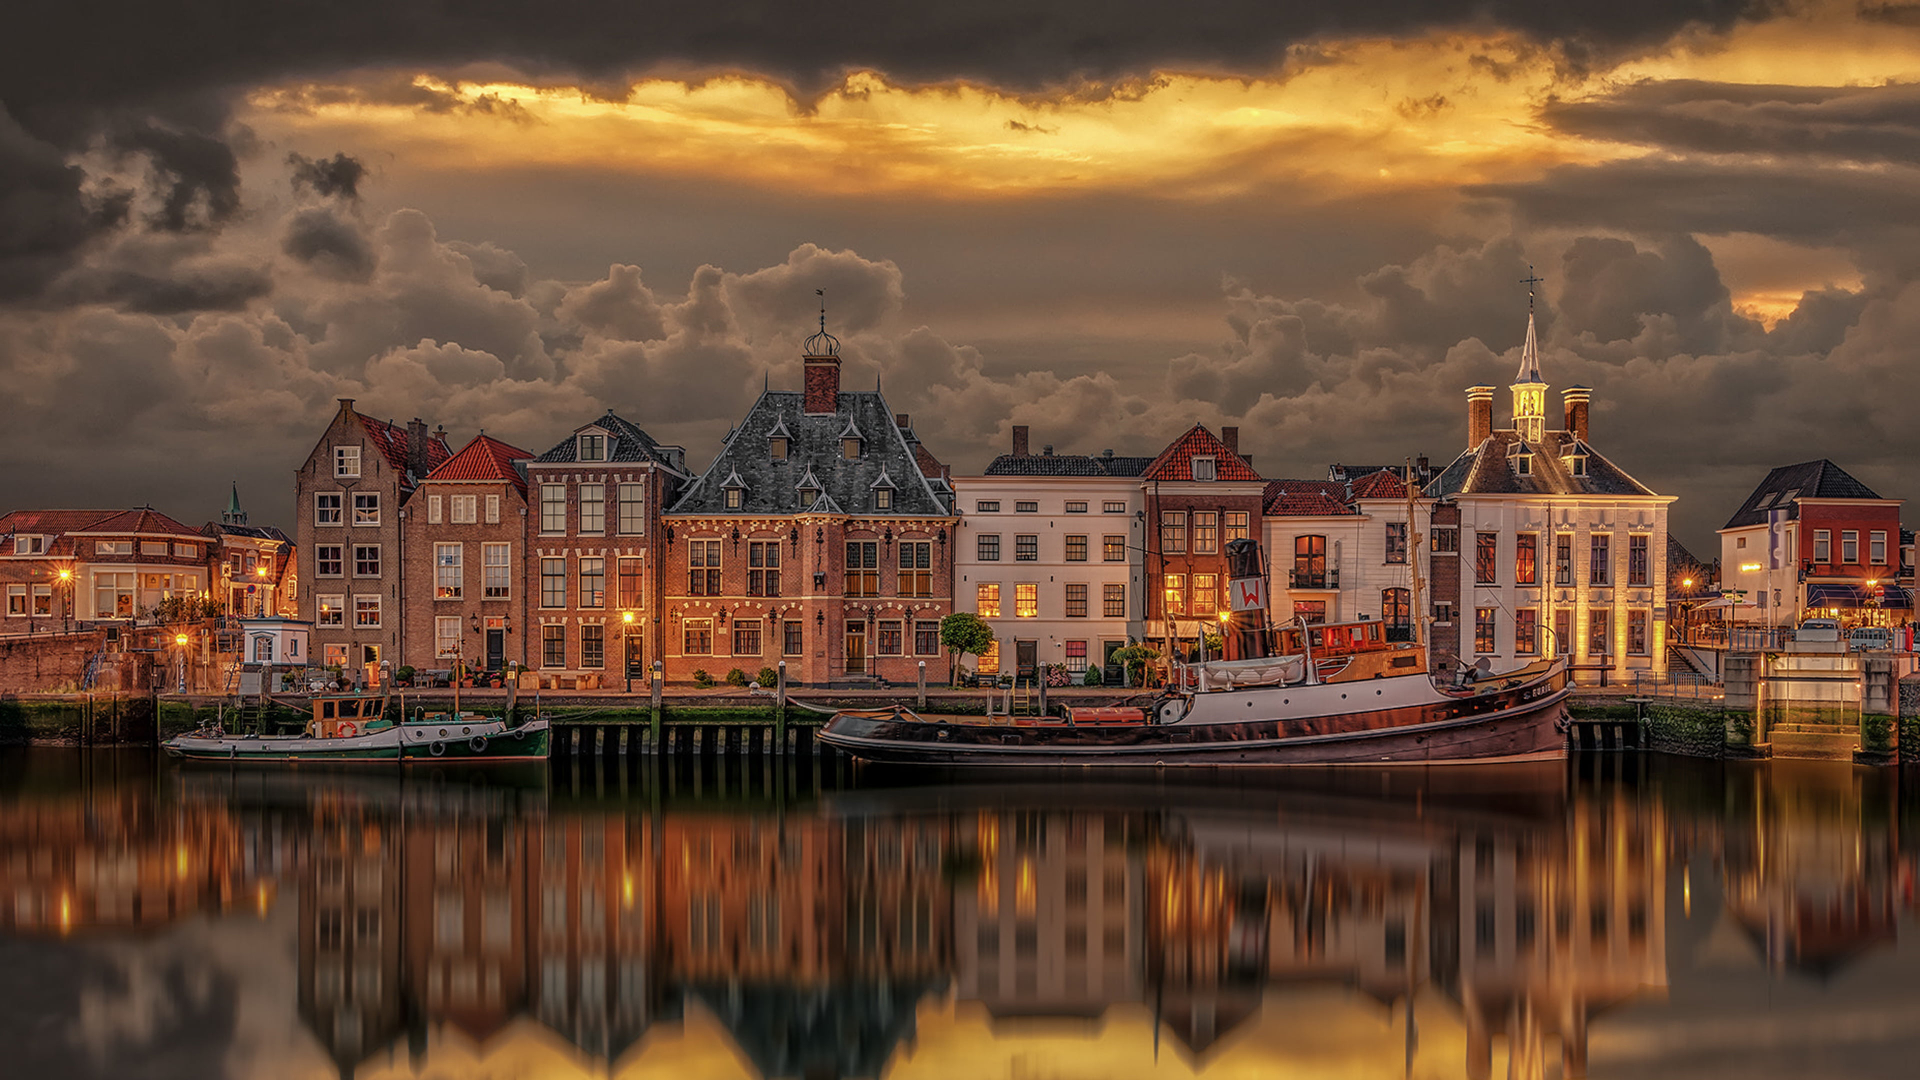
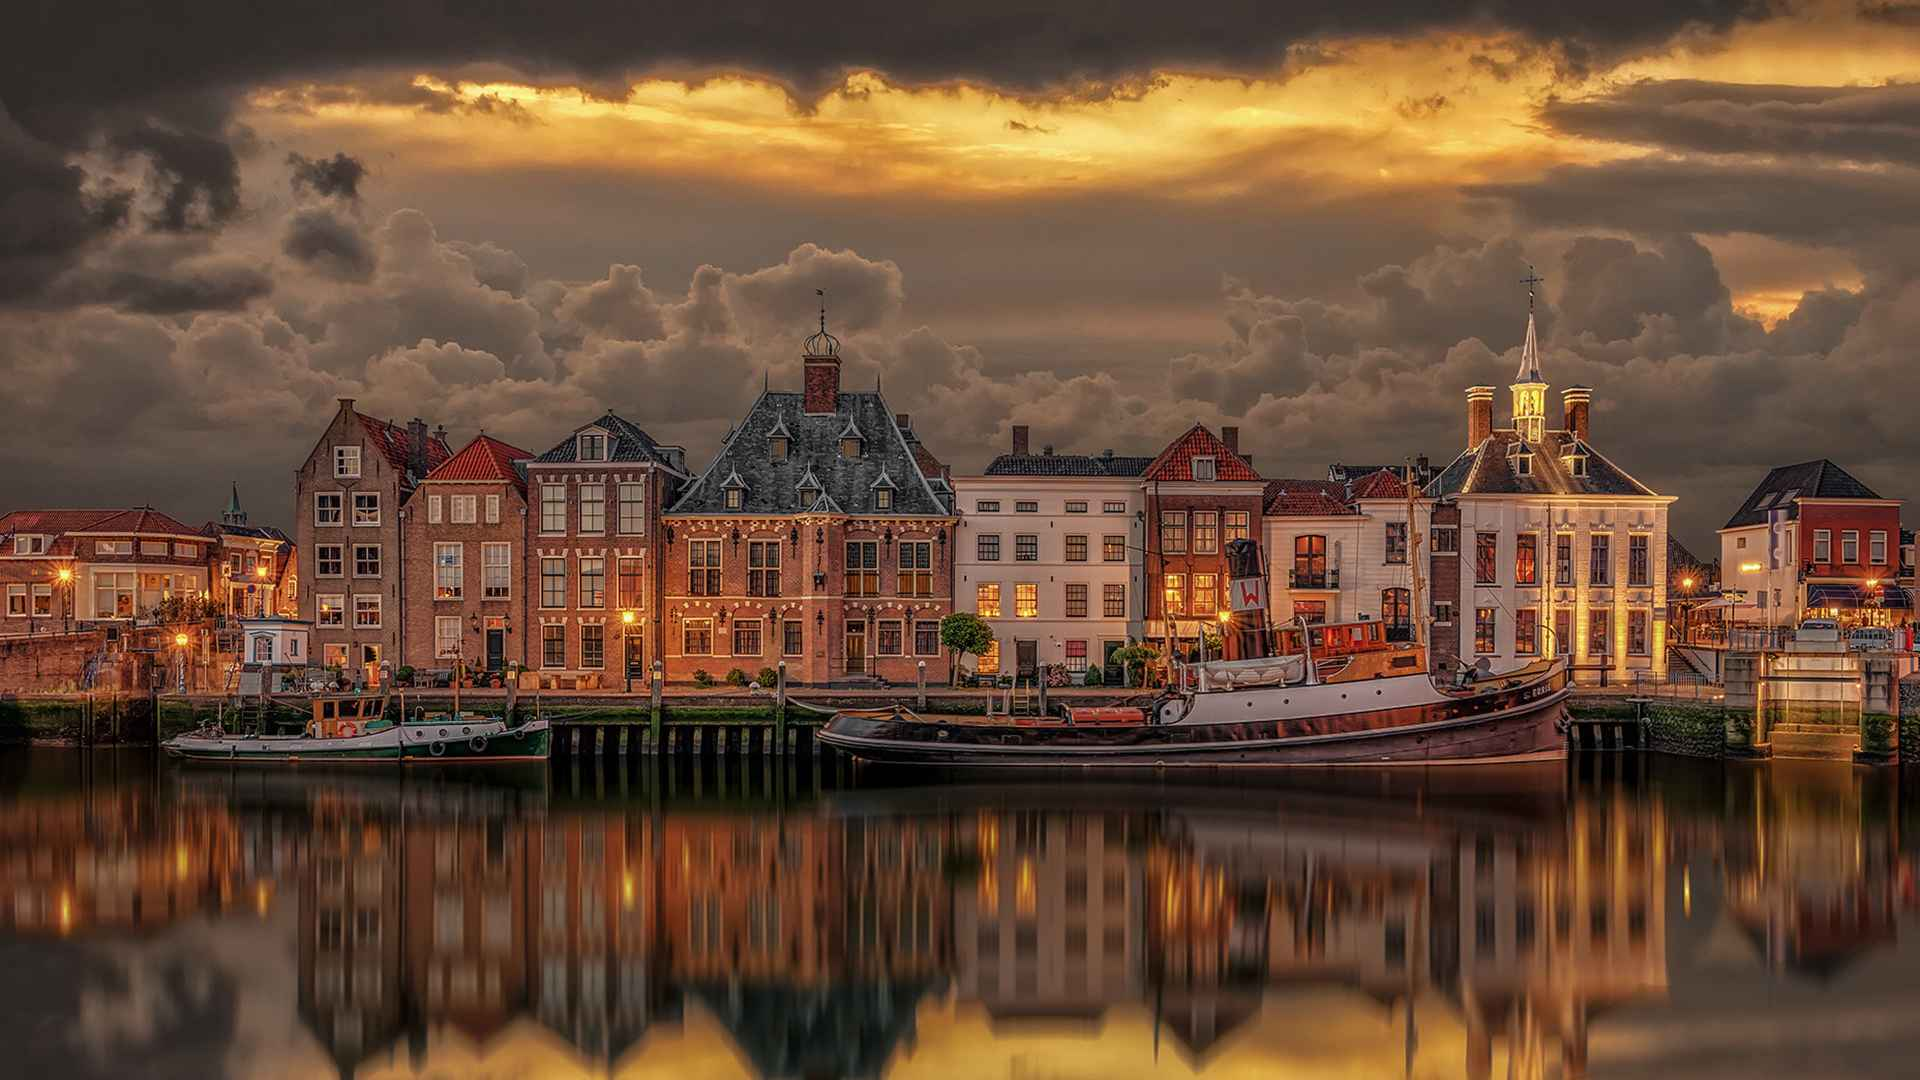
image file size reduced

diff --git a/src/components/quizComponents/quiz.css b/src/components/quizComponents/quiz.css
@@ -52,7 +52,7 @@ label{
   color: gray;
 }
 .submitBtn {
-  margin: 0px 20px;
+  margin: 0px  20px;
   padding: 10px 20px;
   background-color: #007BFF;
   color: white;

diff --git a/src/App.css b/src/App.css
@@ -11,6 +11,5 @@
     background-position: center;
     position: relative;
     transition: all 0.5s ease-out;
-
-    
+    overflow: hidden;    
 }
